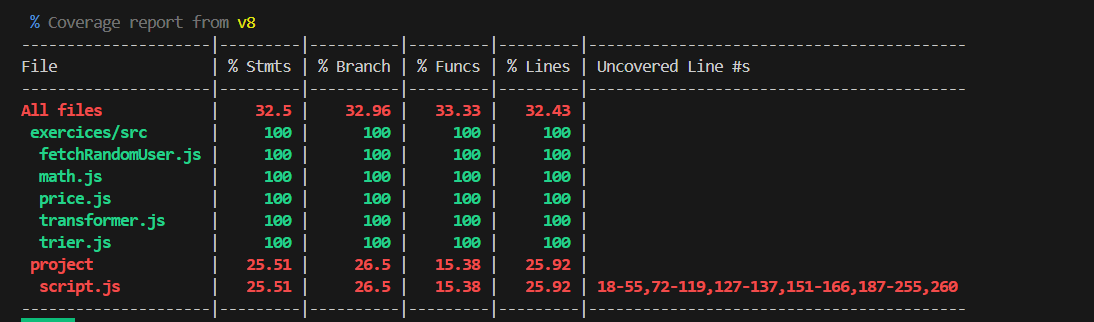
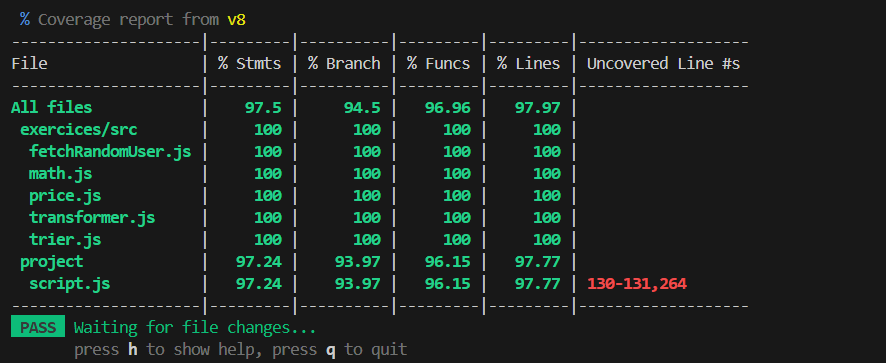
add more tests

diff --git a/project/script.test.js b/project/script.test.js
@@ -1,10 +1,65 @@
 import { describe, test, expect, vi } from "vitest";
 import {
+  check,
+  failed,
+  flip,
   formatTime,
+  getGameState,
+  initializeGame,
   isMatch,
   incrementMoves,
+  registerMove,
+  reset,
+  restartGame,
+  setGameState,
+  shuffle,
   shuffledIndexes,
+  startTimer,
+  stopTimer,
+  success,
+  updateHud,
 } from "./script.js";
+
+function createFakeCard(image = "js") {
+  const classes = new Set();
+
+  return {
+    dataset: { image },
+    style: {},
+    classList: {
+      add: (...names) => names.forEach((name) => classes.add(name)),
+      remove: (...names) => names.forEach((name) => classes.delete(name)),
+      contains: (name) => classes.has(name),
+    },
+    addEventListener: vi.fn(),
+    removeEventListener: vi.fn(),
+  };
+}
+
+function createRoot({ cards = [], withHud = true, withRestart = true } = {}) {
+  const movesEl = { textContent: "" };
+  const timerEl = { textContent: "" };
+  const restartBtn = {
+    addEventListener: vi.fn(),
+    removeEventListener: vi.fn(),
+  };
+
+  return {
+    root: {
+      querySelectorAll: vi.fn(() => cards),
+      getElementById: vi.fn((id) => {
+        if (!withHud) return null;
+        if (id === "moves") return movesEl;
+        if (id === "timer") return timerEl;
+        if (id === "restartBtn") return withRestart ? restartBtn : null;
+        return null;
+      }),
+    },
+    movesEl,
+    timerEl,
+    restartBtn,
+  };
+}
 
 describe("unit tests", () => {
   test("formatTime converts seconds to mm:ss", () => {
@@ -131,5 +186,196 @@ describe("unit tests", () => {
     const secondRun = shuffledIndexes(6, randomFn);
 
     expect(firstRun).toEqual(secondRun);
+  });
+
+  test("initializeGame binds cards/hud and restart listener", () => {
+    const cards = [createFakeCard("js"), createFakeCard("css")];
+    const { root, movesEl, timerEl, restartBtn } = createRoot({ cards });
+
+    initializeGame(root);
+
+    const state = getGameState();
+    expect(state.cards).toHaveLength(2);
+    expect(state.totalPairs).toBe(1);
+    expect(movesEl.textContent).toBe("0");
+    expect(timerEl.textContent).toBe("00:00");
+    expect(restartBtn.addEventListener).toHaveBeenCalledWith(
+      "click",
+      restartGame,
+    );
+  });
+
+  test("flip guards: lock, same card, and invalid this", () => {
+    const card = createFakeCard("js");
+    const { root } = createRoot({ cards: [card] });
+    initializeGame(root);
+
+    setGameState({ lock: true });
+    flip.call(card);
+    expect(card.classList.contains("flip")).toBe(false);
+
+    setGameState({ lock: false, isFlipped: true, firstCard: card });
+    flip.call(card);
+    expect(getGameState().secondCard).toBeNull();
+
+    expect(() => flip.call({})).not.toThrow();
+  });
+
+  test("flip + check success path marks cards as matched", () => {
+    const card1 = createFakeCard("js");
+    const card2 = createFakeCard("js");
+    const { root } = createRoot({ cards: [card1, card2] });
+    initializeGame(root);
+
+    flip.call(card1);
+    flip.call(card2);
+
+    expect(card1.classList.contains("matched")).toBe(true);
+    expect(card2.classList.contains("matched")).toBe(true);
+    expect(getGameState().matchedPairs).toBe(1);
+  });
+
+  test("check returns early when cards are not set", () => {
+    setGameState({ firstCard: null, secondCard: null });
+    expect(() => check()).not.toThrow();
+  });
+
+  test("failed branch with missing cards resets safely", () => {
+    setGameState({
+      firstCard: null,
+      secondCard: null,
+      isFlipped: true,
+      lock: true,
+    });
+    failed();
+    const state = getGameState();
+    expect(state.firstCard).toBeNull();
+    expect(state.secondCard).toBeNull();
+    expect(state.isFlipped).toBe(false);
+    expect(state.lock).toBe(false);
+  });
+
+  test("failed branch flips cards back after timeout", () => {
+    vi.useFakeTimers();
+    const card1 = createFakeCard("js");
+    const card2 = createFakeCard("css");
+    const { root } = createRoot({ cards: [card1, card2] });
+    initializeGame(root);
+
+    card1.classList.add("flip");
+    card2.classList.add("flip");
+    setGameState({ firstCard: card1, secondCard: card2 });
+    failed();
+
+    expect(getGameState().lock).toBe(true);
+    vi.advanceTimersByTime(1000);
+    expect(card1.classList.contains("flip")).toBe(false);
+    expect(card2.classList.contains("flip")).toBe(false);
+    expect(getGameState().lock).toBe(false);
+    vi.useRealTimers();
+  });
+
+  test("success win path stops timer and alerts", () => {
+    vi.useFakeTimers();
+    globalThis.alert = vi.fn();
+
+    const card1 = createFakeCard("js");
+    const card2 = createFakeCard("js");
+    const { root } = createRoot({ cards: [card1, card2] });
+    initializeGame(root);
+    setGameState({
+      firstCard: card1,
+      secondCard: card2,
+      matchedPairs: 0,
+      seconds: 12,
+      moves: 3,
+    });
+    startTimer();
+
+    success();
+    vi.advanceTimersByTime(400);
+
+    expect(globalThis.alert).toHaveBeenCalled();
+    expect(getGameState().timerId).toBeNull();
+    vi.useRealTimers();
+  });
+
+  test("registerMove starts timer once and increments moves", () => {
+    vi.useFakeTimers();
+    setGameState({ moves: 0, gameStarted: false, seconds: 0, timerId: null });
+
+    registerMove();
+    const firstTimer = getGameState().timerId;
+    registerMove();
+
+    expect(getGameState().moves).toBe(2);
+    expect(getGameState().gameStarted).toBe(true);
+    expect(getGameState().timerId).toBe(firstTimer);
+
+    stopTimer();
+    vi.useRealTimers();
+  });
+
+  test("startTimer guard branch does not create second interval", () => {
+    vi.useFakeTimers();
+    setGameState({ timerId: null, seconds: 0 });
+    startTimer();
+    const firstTimer = getGameState().timerId;
+    startTimer();
+    expect(getGameState().timerId).toBe(firstTimer);
+    stopTimer();
+    vi.useRealTimers();
+  });
+
+  test("updateHud handles missing HUD elements", () => {
+    const { root } = createRoot({ cards: [], withHud: false });
+    initializeGame(root);
+    setGameState({ moves: 9, seconds: 75 });
+    expect(() => updateHud()).not.toThrow();
+  });
+
+  test("shuffle no-op when there are no cards", () => {
+    const { root } = createRoot({ cards: [] });
+    initializeGame(root);
+    expect(() => shuffle()).not.toThrow();
+  });
+
+  test("restartGame resets cards, state, and listeners", () => {
+    const card1 = createFakeCard("js");
+    const card2 = createFakeCard("css");
+    const { root } = createRoot({ cards: [card1, card2] });
+    initializeGame(root);
+
+    card1.classList.add("flip", "matched");
+    card2.classList.add("flip", "matched");
+    setGameState({ moves: 5, seconds: 8, matchedPairs: 1, gameStarted: true });
+    restartGame();
+
+    const state = getGameState();
+    expect(state.moves).toBe(0);
+    expect(state.seconds).toBe(0);
+    expect(state.matchedPairs).toBe(0);
+    expect(state.gameStarted).toBe(false);
+    expect(card1.classList.contains("flip")).toBe(false);
+    expect(card1.classList.contains("matched")).toBe(false);
+    expect(card1.removeEventListener).toHaveBeenCalledWith("click", flip);
+    expect(card1.addEventListener).toHaveBeenCalledWith("click", flip);
+  });
+
+  test("reset clears first/second card and lock flags", () => {
+    const card1 = createFakeCard("js");
+    const card2 = createFakeCard("css");
+    setGameState({
+      firstCard: card1,
+      secondCard: card2,
+      isFlipped: true,
+      lock: true,
+    });
+    reset();
+    const state = getGameState();
+    expect(state.firstCard).toBeNull();
+    expect(state.secondCard).toBeNull();
+    expect(state.isFlipped).toBe(false);
+    expect(state.lock).toBe(false);
   });
 });
